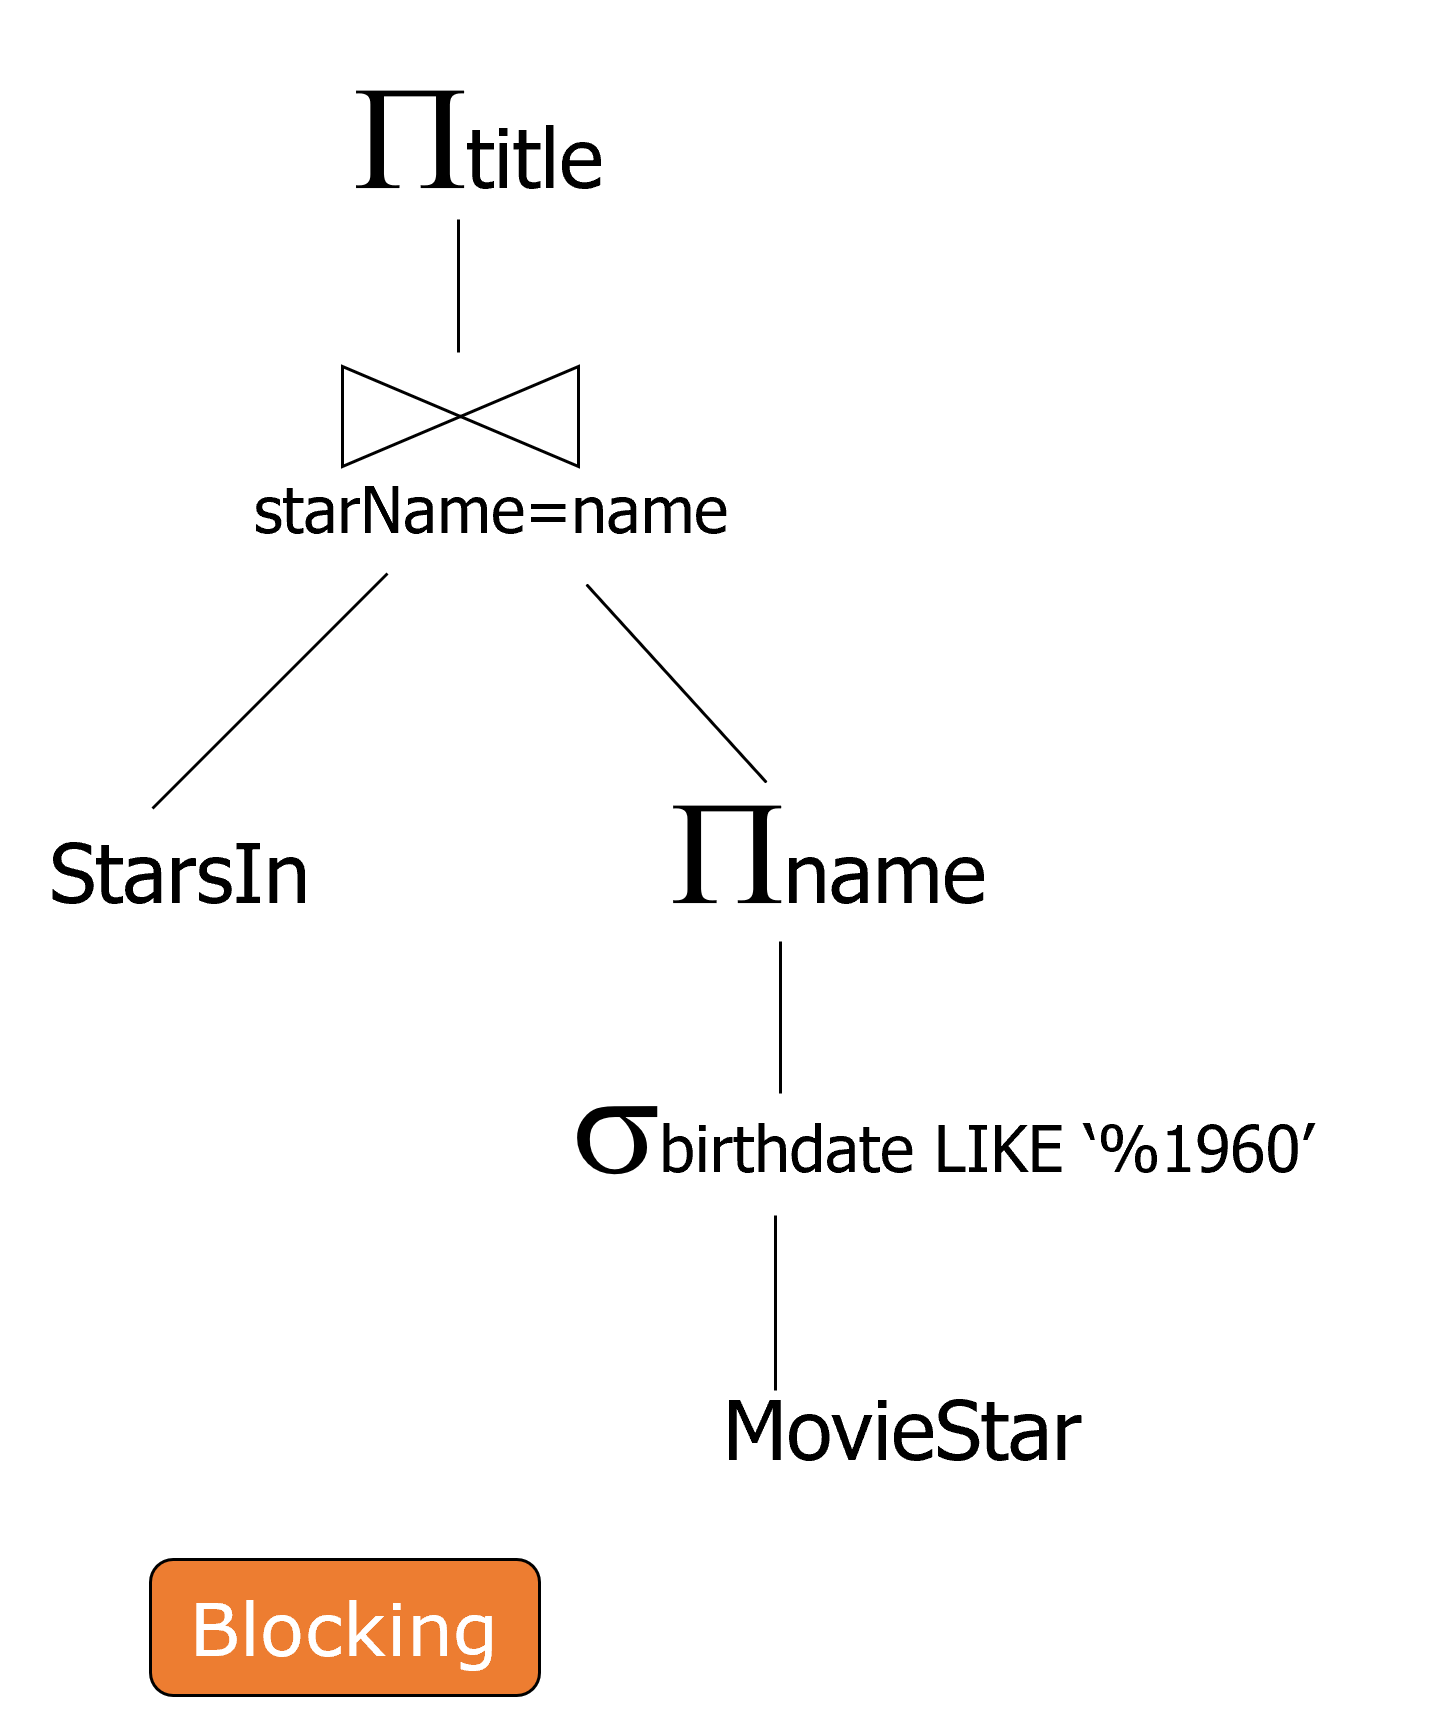
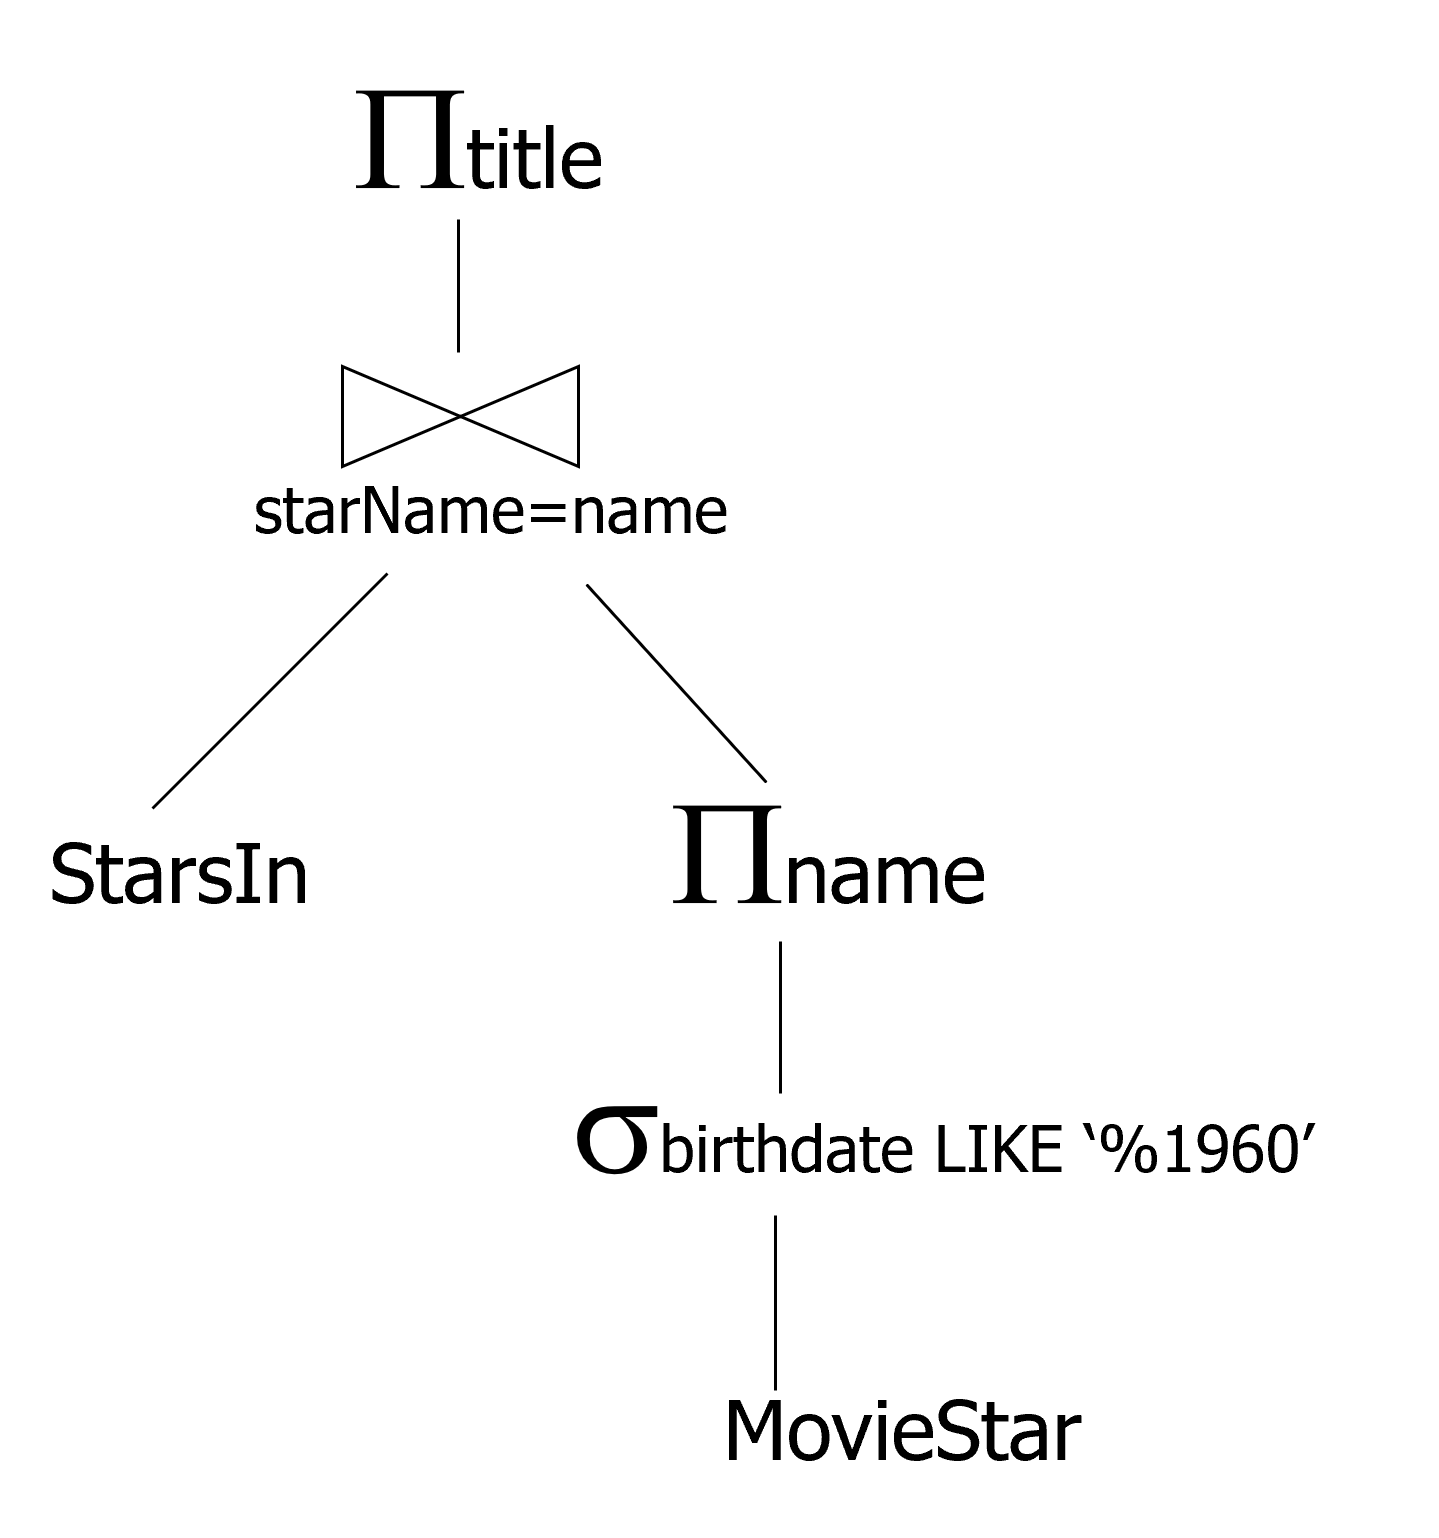
Update documentation

diff --git a/04/anfrageausfuehrung.html b/04/anfrageausfuehrung.html
@@ -574,10 +574,9 @@ Die Open-Funktion initialisiert Datenstrukturen und öffnet einen Iterator für 
 </div>
 <p>In der Open-Funktion werden die beiden Relationen R und S geöffnet, angefangen mit R. Außerdem wird die Variable CurRel mit der aktuellen Relation initialisiert.</p>
 <p>Die GetNext() Funktion führen wir dann auf das nächste Argument der Relation aus. Wird kein NotFound ausgegeben, geben wir das Tupel aus, andernfalls öffnen wir S und initialisieren CurRel mit S. Danach führen wir S.GetNext() aus.</p>
-<p><strong>Iterator Beispiel</strong></p>
+<p><strong>Iterator Beispiel - Blocking</strong></p>
 <p>In diesem Iterator Beispiel sieht man unten die beiden Relationen <em>StarsIn</em> und <em>MovieStar</em>. Aus der Relation <em>MovieStar</em> werden mithilfe, einer Selektion und einer Projektion alle Namen der Filmstars die 1960 geboren wurden herausprojiziert. <em>StarsIn</em> und <em>MovieStar</em> werden dann gejoint und um die Titel der Filme zu bekommen, in denen nur Schauspieler gespielt haben, die 1960 geboren wurden.</p>
 <a class="reference internal image-reference" href="../_images/Iterator-Beispiel.png"><img alt="Iterator-Beispiel" src="../_images/Iterator-Beispiel.png" style="width: 500px;" /></a>
-<br>
 <p>Schauen wir uns einmal den Code zu diesem Beispiel an:</p>
 <div class="highlight-default notranslate"><div class="highlight"><pre><span></span>p = projection.Open();
 while (t &lt;&gt; NotFound)
@@ -649,12 +648,10 @@ Class join {
 <p>Pipelining ist im allgemeinen sehr vorteilhaft. Es müssen keine Zwischenergebnisse gespeichert werden und Operationen können auf Threads und CPUs verteilt werden. Wenn aber die gesamte Relation gelesen werden muss, braucht man Pipeline-Breaker. Sortiert man beispielsweise, muss man die gesamte Relation gesehen haben, andernfalls kann next() nicht ausgeführt werden. Das ist vor allem auch wichtig, wenn man gruppieren und aggregieren möchte. Ist die Relation sortiert oder gehashed kann next() diese dann aggregieren.</p>
 <p>Union und Projektionen mit Duplikateliminierung scheinen auf den ersten Blick wie Pipeline-Breaker zu sein, da man alle Tupel miteinander vergleichen muss. Das ist aber nicht zwingend der Fall, denn die beiden Operatoren können die Tupel die sie bekommen in der GetNext-Funktion vermerken. Beim nächsten Aufruf kann dann geprüft werden, ob dieses Tupel schon einmal gesehen wurde. Eine Sortierung ist hierfür nicht notwendig, da next() die Ergebnisse schon früh weiterreichen kann. Die effizienteste Methode ist dies nicht, da man für das merken der Tupel einen großen Zwischenspeicher braucht. <br>
 <strong>Aber:</strong> Einen Zwichenspeicher braucht man nur manchmal, in den anderen Fällen muss man die Operationen blocken (Blocking).</p>
-<p><strong>Iterator – Beispiel</strong></p>
+<p><strong>Iterator Beispiel - Pipelining</strong></p>
 <p>Hier noch einmal das selbe Beispiel wie zuvor. Diesmal pipelinen wir.</p>
 <a class="reference internal image-reference" href="../_images/Iterator-Beispiele_2.png"><img alt="Iterator-Beispiele_2" src="../_images/Iterator-Beispiele_2.png" style="width: 500px;" /></a>
-<br>
-<div class="highlight-default notranslate"><div class="highlight"><pre><span></span>
-p = projection.Open();
+<div class="highlight-default notranslate"><div class="highlight"><pre><span></span>p = projection.Open();
 while (t &lt;&gt; NotFound)
     t = p.GetNext()
 return t; § p.Close();
